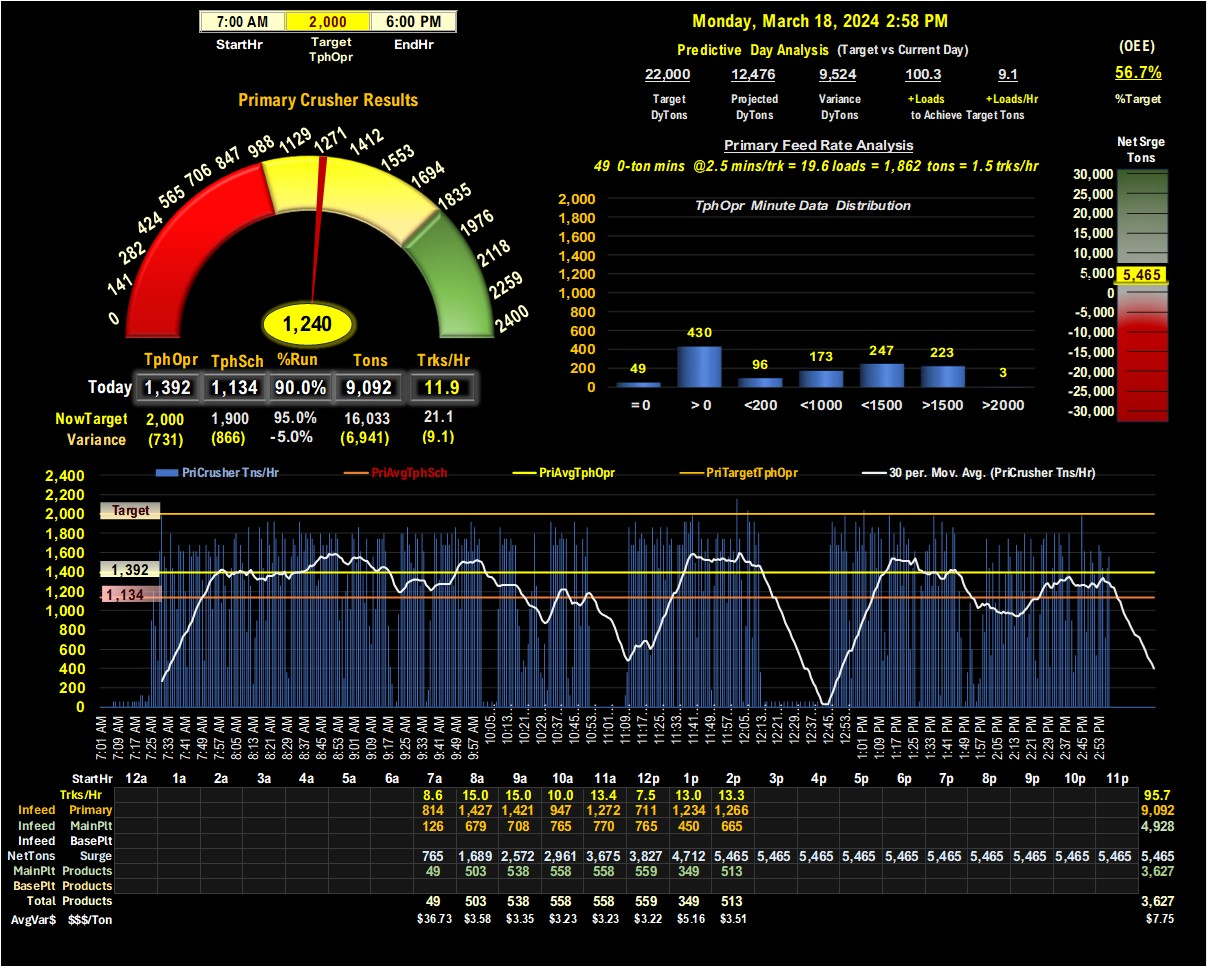
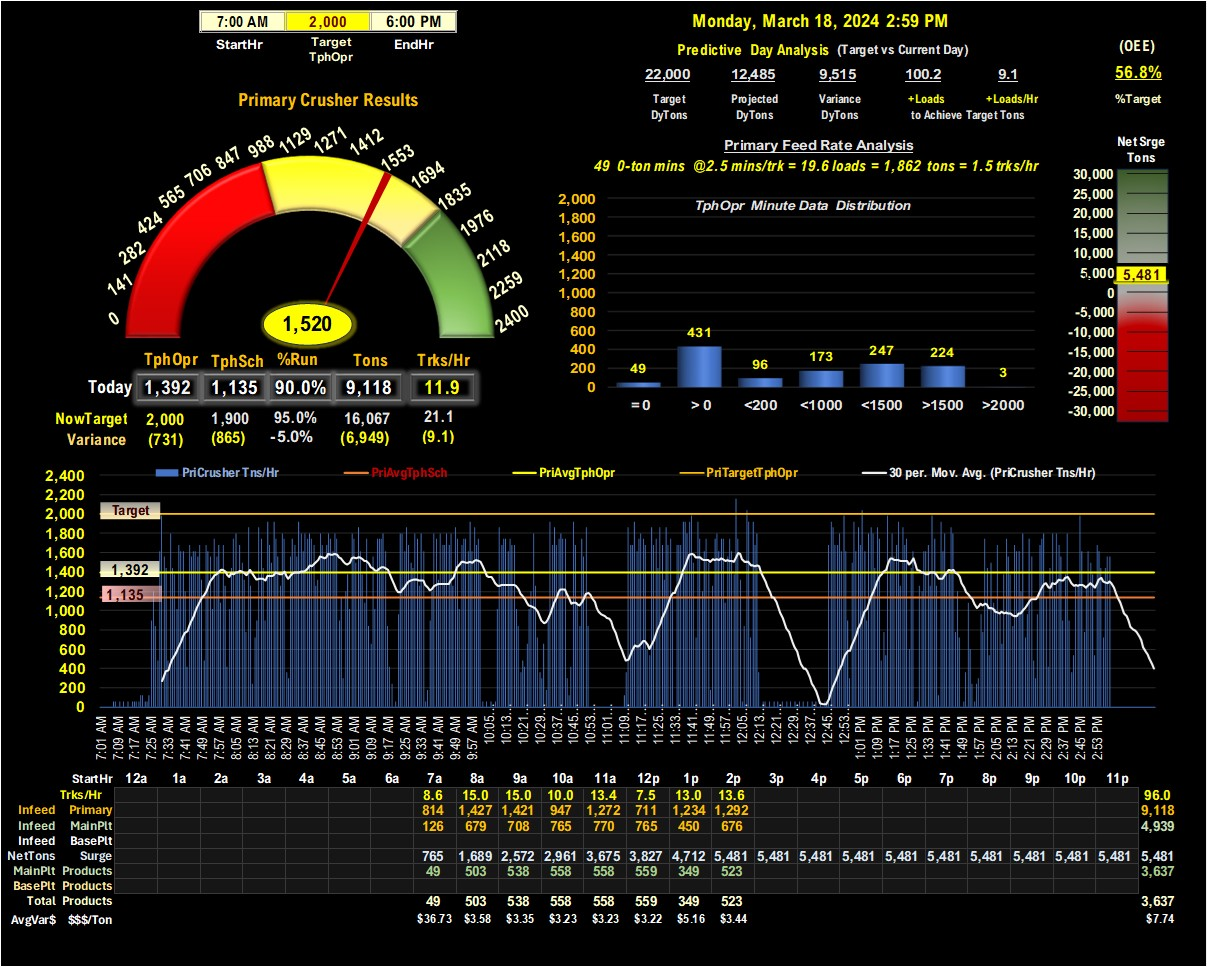
new commit

diff --git a/ColLSPri1.py b/ColLSPri1.py
@@ -40,15 +40,17 @@ image_path = "ColLSPri.jpg"
 image = Image.open(image_path)
 
 def your_function_to_update():
+    global image  # Declare image as global
     # Refresh the image
     image = Image.open(image_path)
     st.image(image, use_column_width=True)
 
 def rerun_thread():
-    # Sleep for 60 seconds
-    time.sleep(60)
-    # Rerun the streamlit app
-    threading.Thread(target=your_function_to_update).start()
+    while True:  # Run indefinitely
+        # Sleep for 60 seconds
+        time.sleep(60)
+        # Rerun the streamlit app
+        your_function_to_update()
 
 def main():
     # Display the image to automatically resize with the column width
@@ -56,8 +58,6 @@ def main():
 
     # Start a thread to rerun the app after 60 seconds
     threading.Thread(target=rerun_thread, daemon=True).start()
-
-    
 
 if __name__ == '__main__':
     main()
